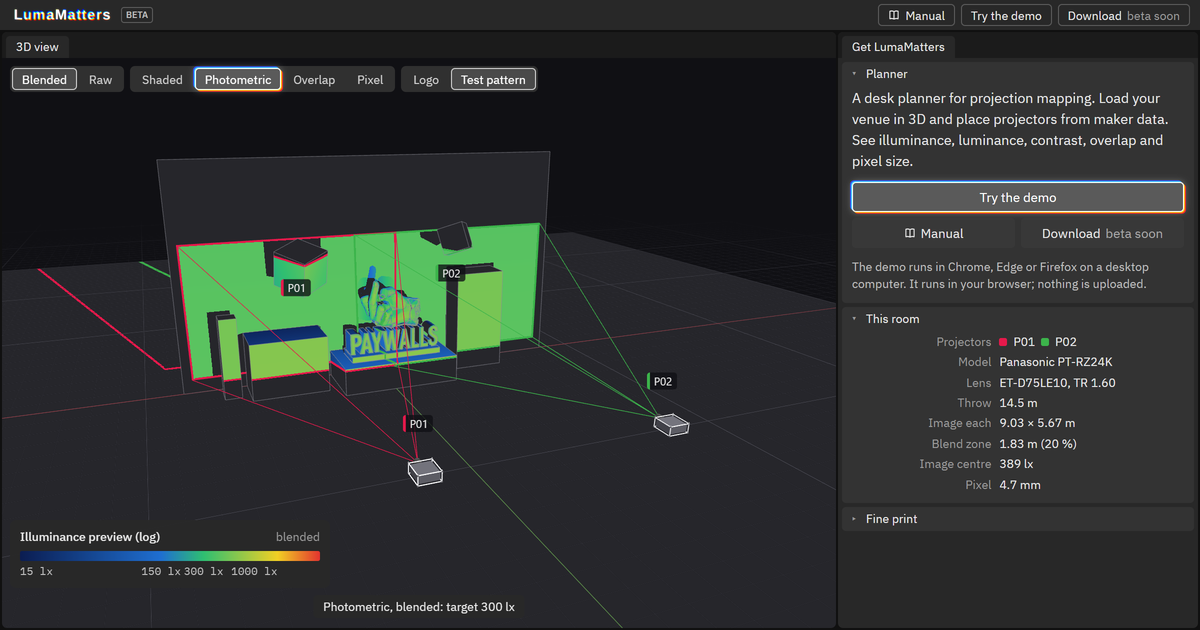
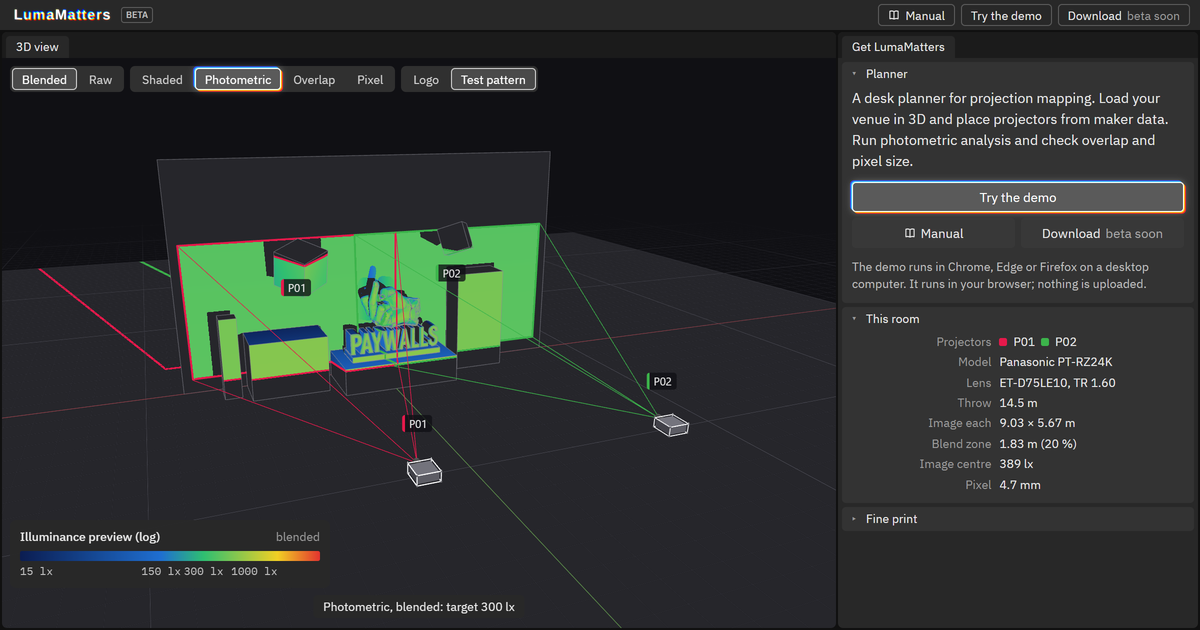
Link previews: say 'photometric analysis' (owner)

diff --git a/public/index.html b/public/index.html
@@ -4,11 +4,11 @@
 <meta name="viewport" content="width=device-width,initial-scale=1,viewport-fit=cover">
 <title>LUMAMATTERS</title>
 <meta charset="utf-8">
-<meta name="description" content="Desk planner for projection mapping. Place projectors from maker data in your 3D venue. See illuminance, luminance, contrast, overlap and pixel size.">
+<meta name="description" content="Desk planner for projection mapping. Place projectors from maker data in your 3D venue. Run photometric analysis and check overlap and pixel size.">
 <meta property="og:type" content="website">
 <meta property="og:site_name" content="LUMAMATTERS">
 <meta property="og:title" content="LUMAMATTERS: desk planner for projection mapping">
-<meta property="og:description" content="Desk planner for projection mapping. Place projectors from maker data in your 3D venue. See illuminance, luminance, contrast, overlap and pixel size.">
+<meta property="og:description" content="Desk planner for projection mapping. Place projectors from maker data in your 3D venue. Run photometric analysis and check overlap and pixel size.">
 <meta property="og:url" content="https://lmxtinker.github.io/LUMAMATTERS-manual/">
 <meta property="og:image" content="https://lmxtinker.github.io/LUMAMATTERS-manual/assets/og-image.png">
 <meta property="og:image:width" content="1200">
@@ -197,7 +197,7 @@ details:not([open]) summary::before{content:"▸"}
       <details class="panel" open>
         <summary>Planner</summary>
         <div class="pbody">
-          <p class="lead">A desk planner for projection mapping. Load your venue in 3D and place projectors from maker data. See illuminance, luminance, contrast, overlap and pixel size.</p>
+          <p class="lead">A desk planner for projection mapping. Load your venue in 3D and place projectors from maker data. Run photometric analysis and check overlap and pixel size.</p>
           <div class="acts">
             <a class="btn rgb" href="demo/">Try the demo</a>
             <div class="row2">
